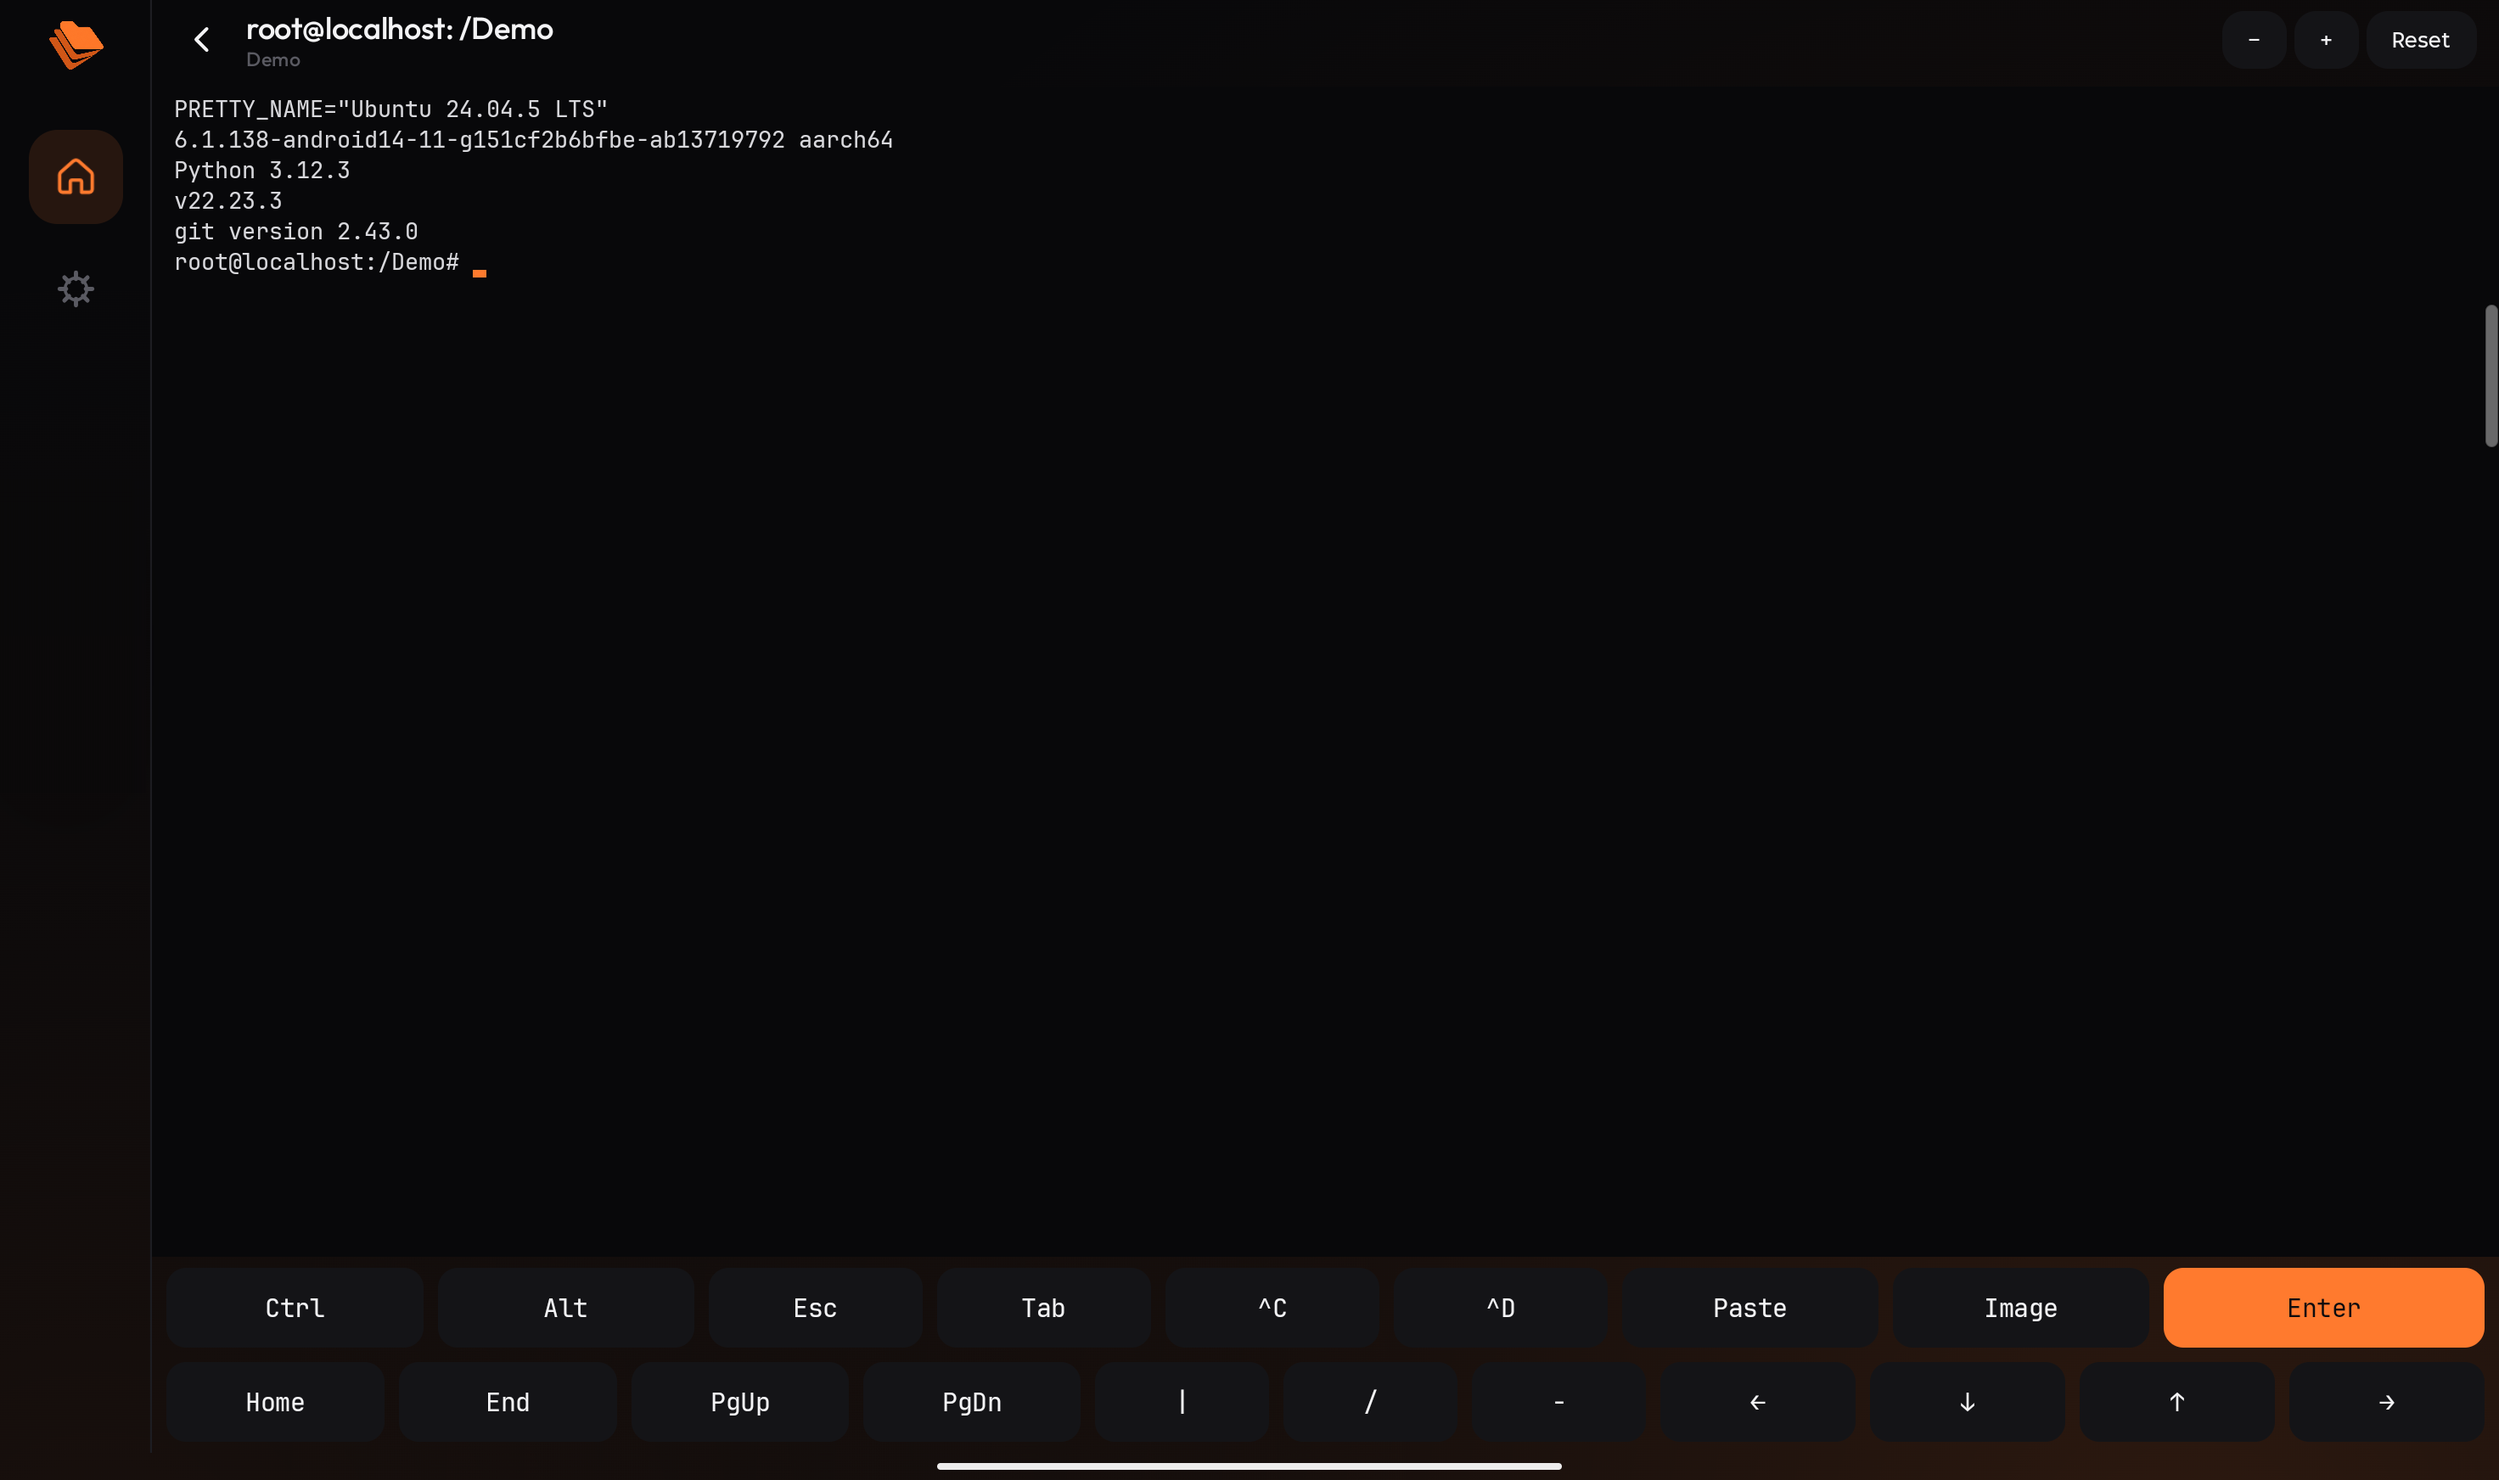
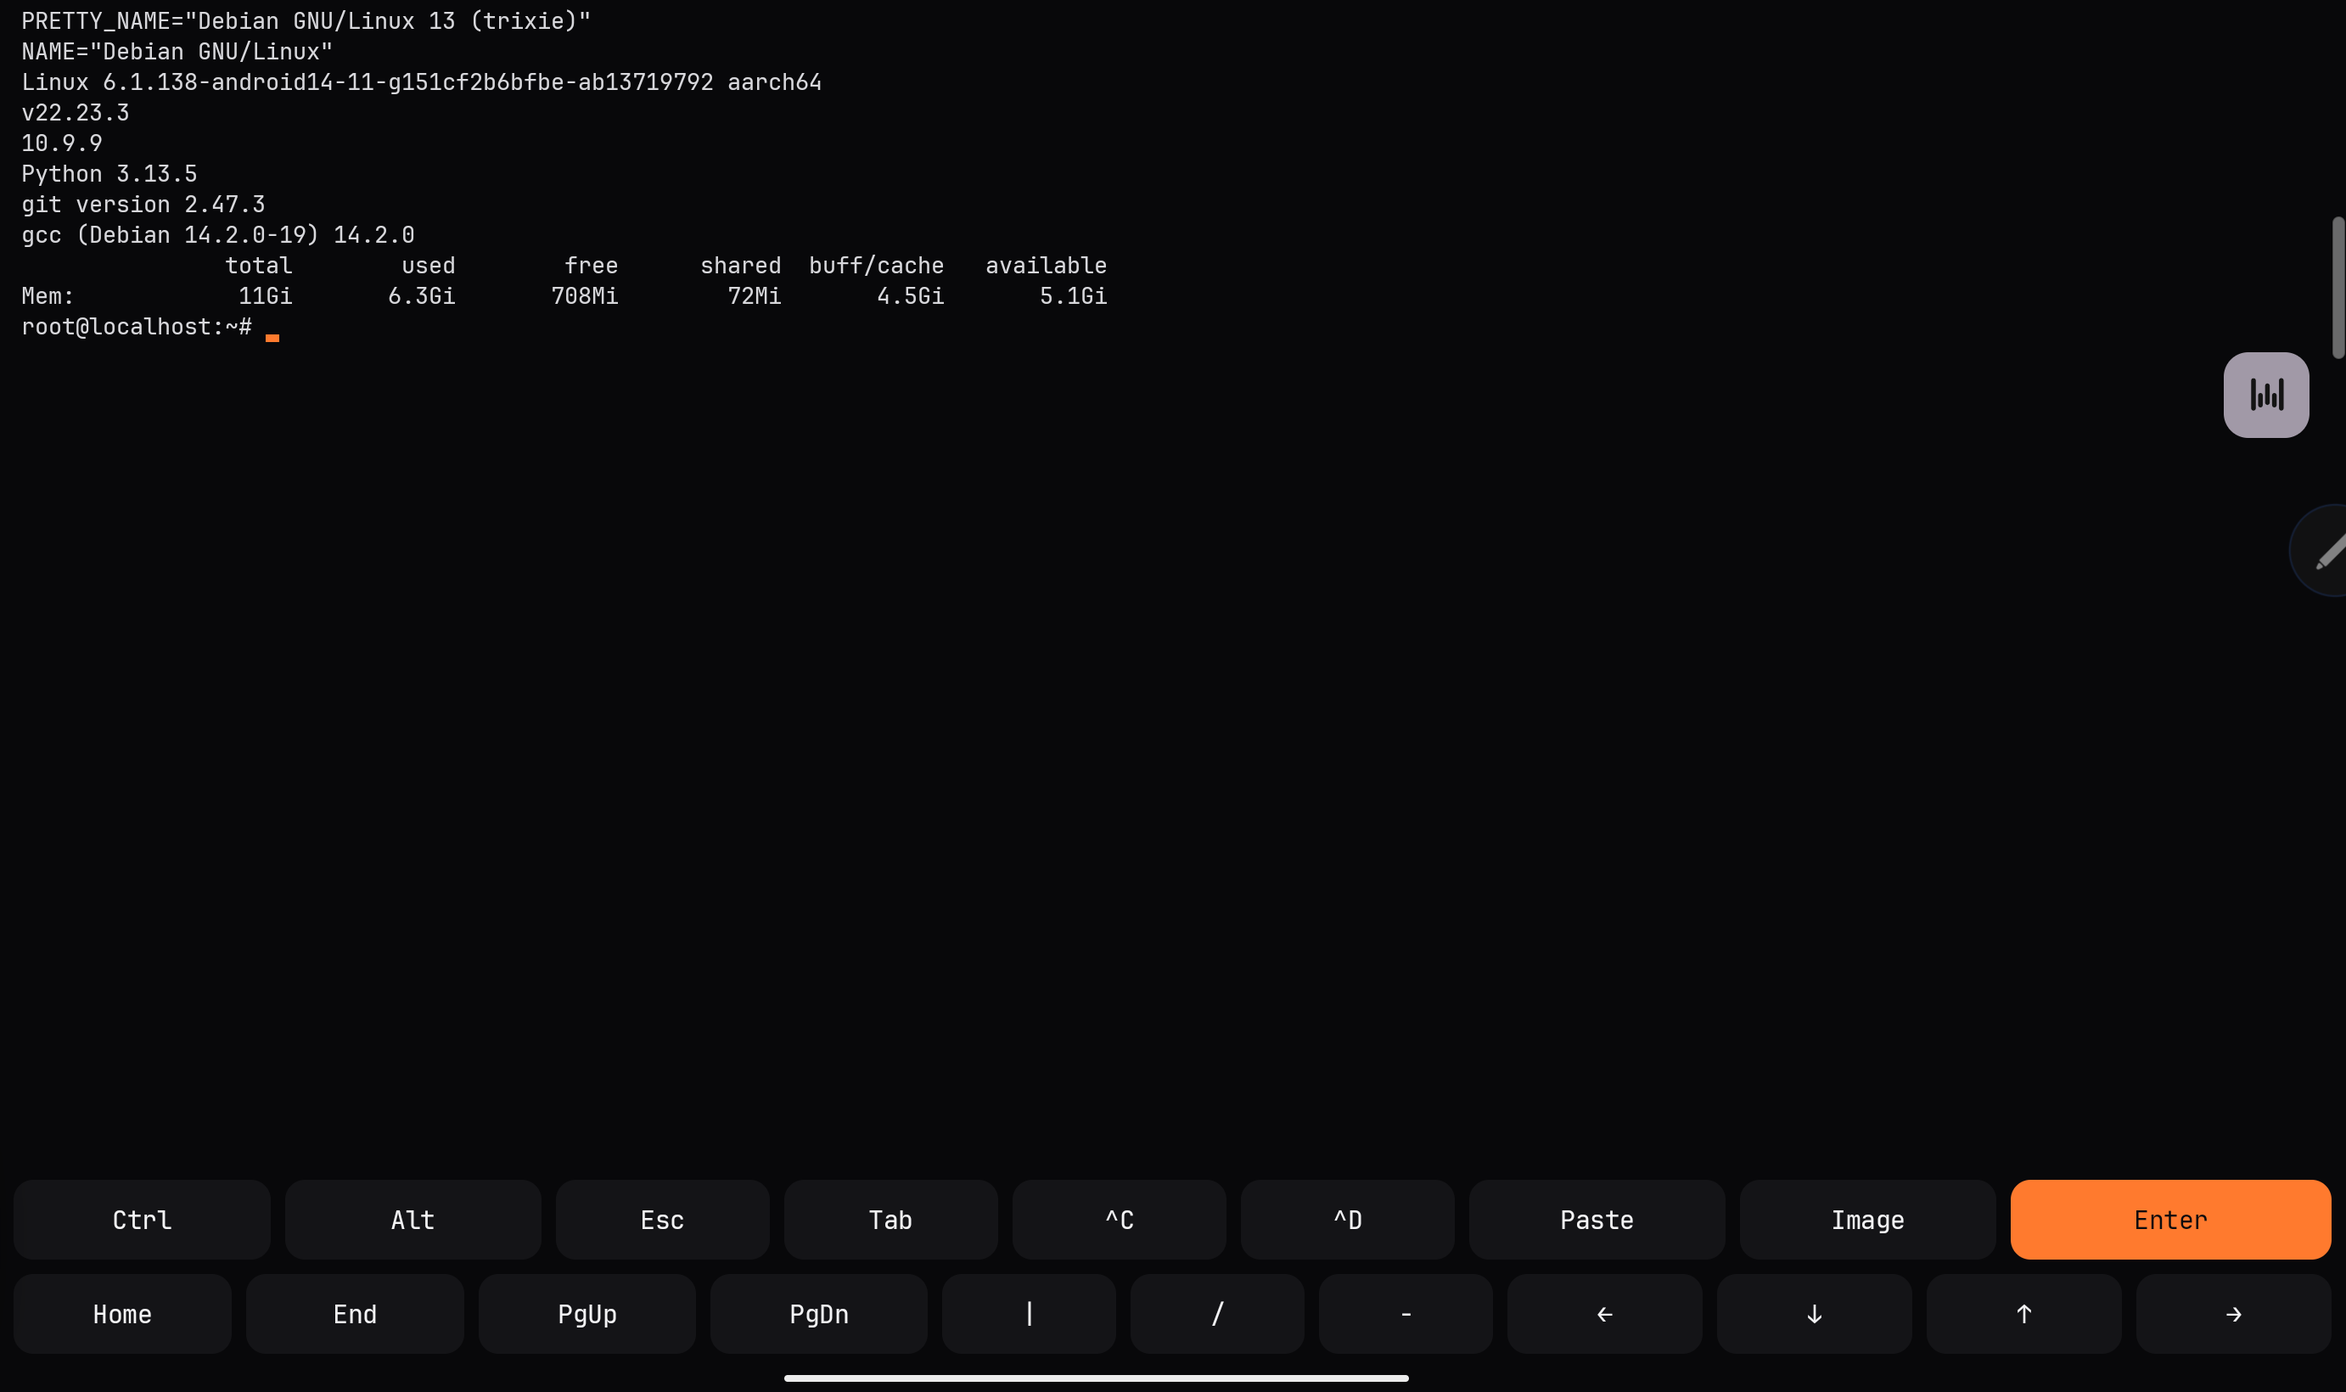
v2.2.1: keep Node.js and the agent CLIs on PATH in Debian login shells
Debian's /etc/profile resets PATH for login shells (Ubuntu's did not), which dropped
/opt/node/bin where Node and every agent CLI live. A profile.d snippet restores it.
Also refreshes the README terminal screenshot (taken on the tablet, now Debian).

diff --git a/app/src/main/java/com/termfold/app/shell/ShellSetup.kt b/app/src/main/java/com/termfold/app/shell/ShellSetup.kt
@@ -66,6 +66,10 @@ object ShellSetup {
                 .filter { it.exists() }
                 .forEach { it.deleteRecursively() }
             installBrowserTools(context, rootfs)
+            // Debian's /etc/profile resets PATH for a login shell (Ubuntu's did not), which would
+            // drop /opt/node/bin, where Node and every agent CLI live. /etc/profile.d runs after
+            // that reset, so the directory is put back at the front from there.
+            writeIfChanged(File(rootfs, "etc/profile.d/00-termfold-path.sh"), PROFILE_PATH)
             // Replacements for groupadd/useradd, which fail without hard links (see the assets);
             // the setup script swaps them in before installing packages.
             for (tool in listOf("groupadd", "useradd")) {
@@ -117,6 +121,15 @@ object ShellSetup {
             writeIfChanged(file, updated)
         }
     }
+
+    private val PROFILE_PATH = """
+        |# TermFold: keep Node.js and the agent CLIs ahead of the system ones.
+        |case ":${'$'}PATH:" in
+        |  *:/opt/node/bin:*) ;;
+        |  *) PATH="/opt/node/bin:${'$'}PATH" ;;
+        |esac
+        |export PATH
+        |""".trimMargin().trimStart('\n')
 
     /** Guest path of the browser command; chat sessions start it as an MCP server. */
     const val BROWSER_TOOL = "/usr/local/bin/termfold-browser"
